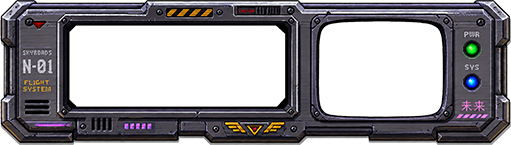
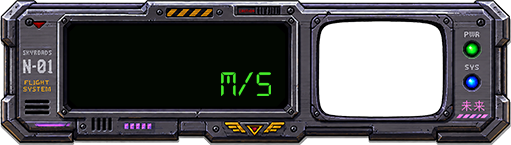
Show ship speed meter

Changed region(s): [[0.1174, 0.1655, 0.5577, 0.7448]]

diff --git a/src/main.c b/src/main.c
@@ -125,6 +125,9 @@ int main() {
   Texture2D bg = (Texture2D){0};
   Rectangle bgSize = (Rectangle){0};
   Texture2D hudPanel = LoadTexture("images/hud_panel.png");
+  Font digitalFont = LoadFont("fonts/digital.ttf");
+  char speedText[SPEED_TEXT_BUFFER_SIZE];
+  Color speedTextFontColor = (Color){83, 244, 65, 255};
 
   b3WorldDef worldDef = b3DefaultWorldDef();
   worldDef.gravity = (b3Vec3){0.0f, GRAVITY, 0.0f};
@@ -233,6 +236,7 @@ int main() {
       }
     }
     prevShipSpeed = shipSpeed;
+    snprintf(speedText, sizeof(speedText), "%.0f", fabsf(shipSpeed.z));
 
     BeginTextureMode(target);
     ClearBackground(BLACK);
@@ -300,6 +304,25 @@ int main() {
     int hudX = (SCR_WIDTH - hudPanel.width) / 2;
     int hudY = SCR_HEIGHT - hudPanel.height - 20;
     DrawTexture(hudPanel, hudX, hudY, WHITE);
+
+    Vector2 textSize = MeasureTextEx(
+      digitalFont,
+      speedText,
+      SPEED_TEXT_FONT_SIZE,
+      SPEED_TEXT_FONT_SPACING
+    );
+
+    DrawTextEx(
+      digitalFont,
+      speedText,
+      (Vector2){
+        hudX + (hudPanel.width / 2) - textSize.x - 50.0f,
+        hudY + (hudPanel.height / 4) - 1
+      },
+      SPEED_TEXT_FONT_SIZE,
+      SPEED_TEXT_FONT_SPACING,
+      speedTextFontColor
+    );
     EndTextureMode();
 
     BeginDrawing();
@@ -318,6 +341,7 @@ int main() {
 
   UnloadModel(shipModel);
   UnloadTexture(bg);
+  UnloadFont(digitalFont);
   CloseWindow();
   b3DestroyWorld(worldId);
   return 0;

diff --git a/src/common.h b/src/common.h
@@ -16,6 +16,9 @@
 #define EXPLOSION_SPHERES_COUNT 50
 #define INITIAL_SHIP_POSITION (Vector3){5.5f, 1.5f, 10.0f}
 #define SHIP_FALL_LIMIT_Y -60.0f
+#define SPEED_TEXT_BUFFER_SIZE 12
+#define SPEED_TEXT_FONT_SIZE 69.0f
+#define SPEED_TEXT_FONT_SPACING 5.0f
 
 #ifndef MIN
 #define MIN(a, b) ((a) < (b) ? (a) : (b))
